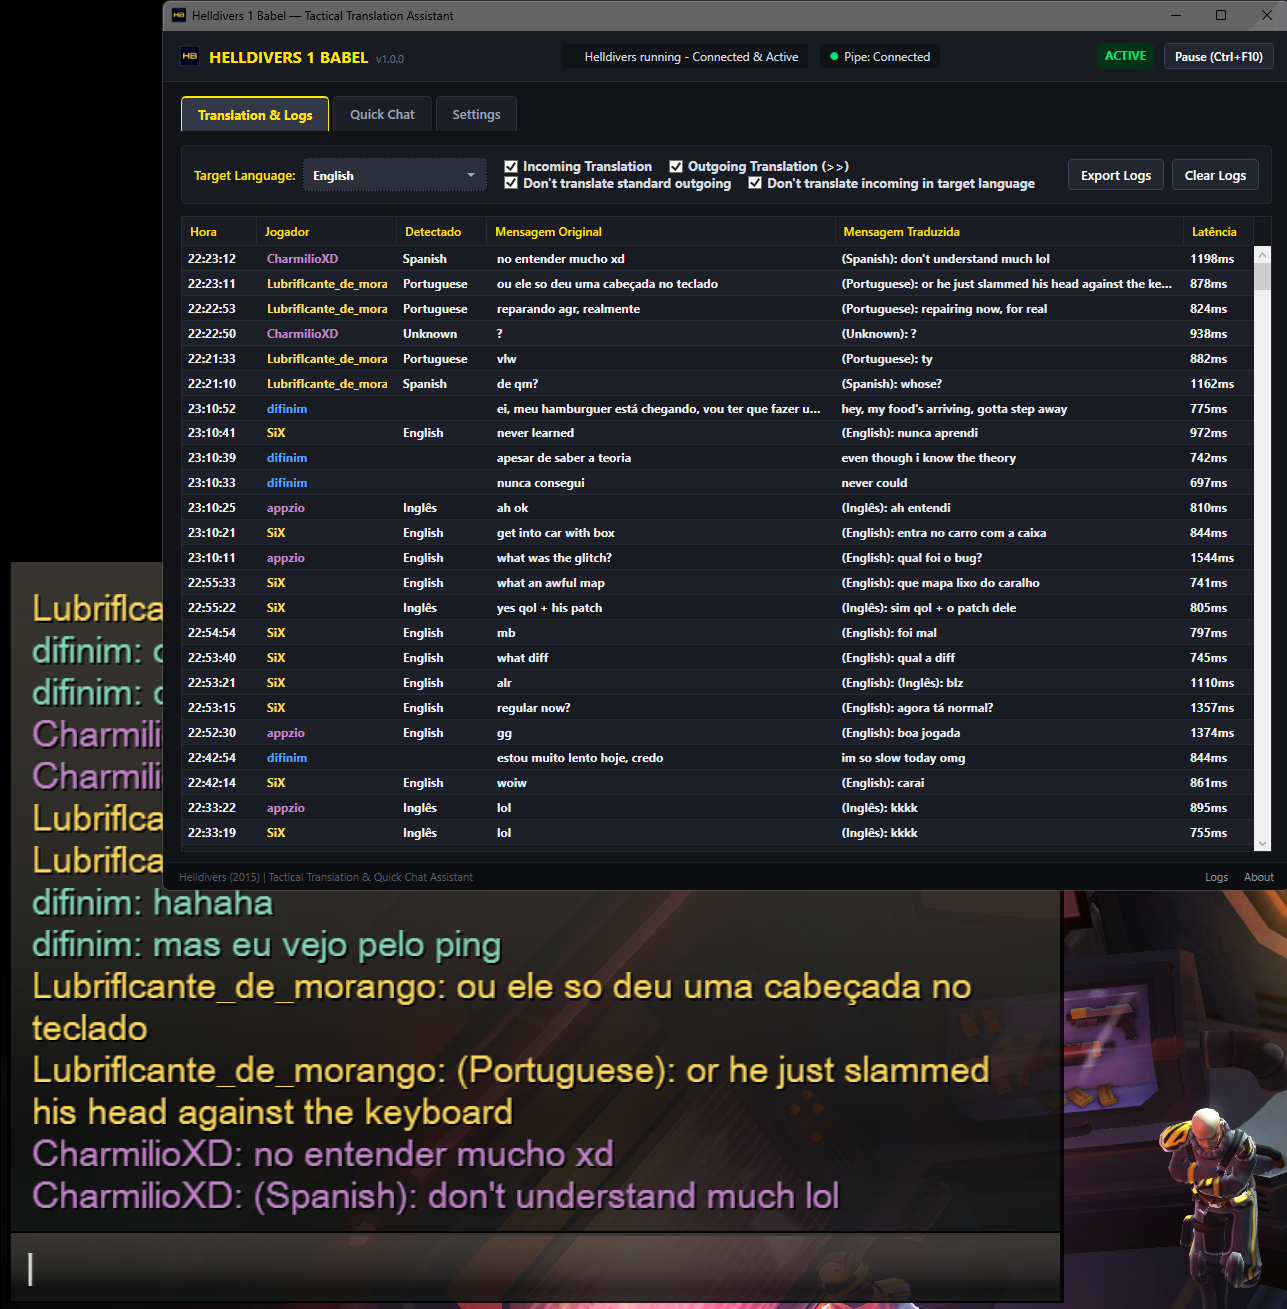
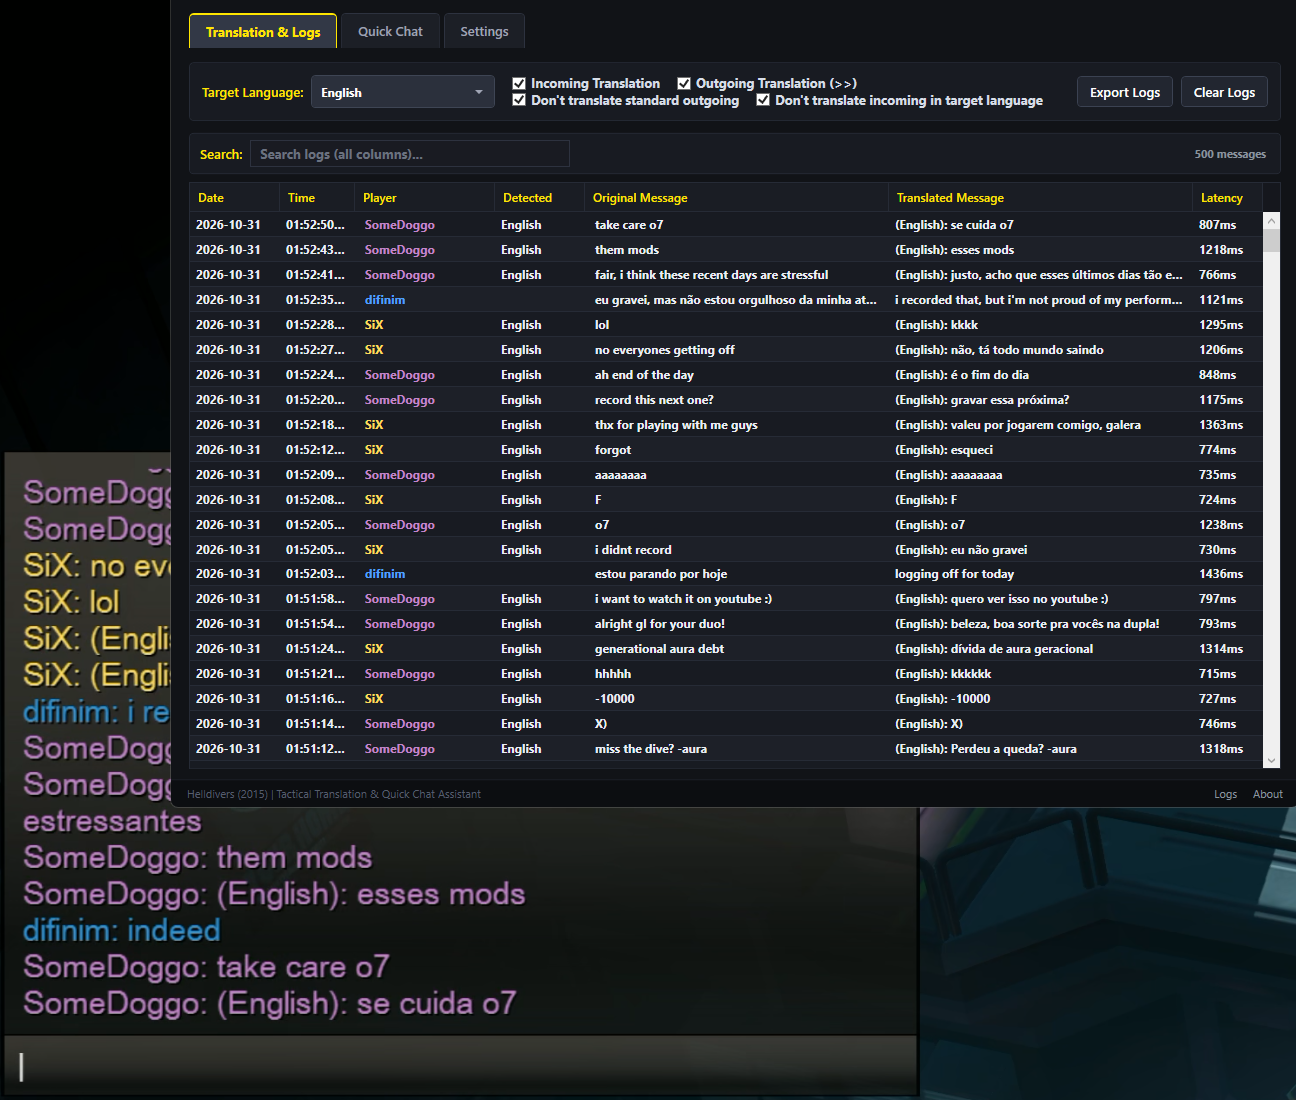
docs: update README files

Changed region(s): [[0.0, 0.0, 1.0, 1.0], [0.0, 0.9582, 0.0311, 0.9891]]

diff --git a/README.md b/README.md
@@ -13,6 +13,7 @@
 > [!IMPORTANT]
 > **Compatibility Disclaimer:**
 > **Helldivers 1 Babel is strictly developed for Helldivers (2015) on PC (Steam).**
+> **It is compatible with mods.**
 > **It is NOT compatible with Helldivers 2 (2024)**, which is completely different and uses kernel-level anti-cheat.
 
 ## Table of Contents
@@ -38,6 +39,7 @@
   - **Incoming Messages:** Automatically detects teammates' language, translates messages into your chosen target language (supports up to 28 target languages, including Portuguese PT-BR, English, Spanish, Russian, Chinese, Japanese, French, German, and more), and renders them **locally** into the in-game chat while **faithfully preserving the original teammate's player name and color code** (P1 Gold, P2 Blue, P3 Purple, P4 Cyan).
   - **Outgoing Messages:** Type `[target_language]>>message` or simply `>>message` to auto-reply in the language of the last incoming teammate message. Translated text is broadcasted over multiplayer RPC so international teammates read it natively.
 - **Persistent Chat Logs & File Export:** Full session chat history tracking with timestamps, player names, colors, detected source languages, and translation latency. Logs persist in the table across application restarts via lightweight asynchronous batch disk writes (configurable), with one-click export to a `.txt` file.
+- **Searchable Chat Logs:** Fully searchable chat history that filters any columns
 
 ![Helldivers 1 Babel in action](docs/screenshot.png)
 
